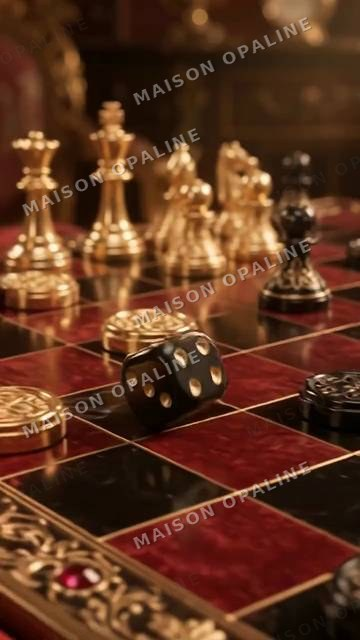
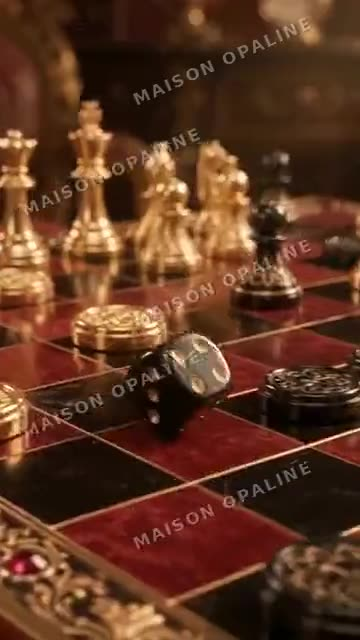
Aperçus des univers : début de la vidéo plutôt que la carte
Claude-Session: https://claude.ai/code/session_01HBNLQ4isHV8YxifdpwXKWK

diff --git a/index.html b/index.html
@@ -386,8 +386,8 @@
   document.title = BRAND + ' — invitations animées';
 
   function mkVideo(k, label){
-    var v = document.createElement('video'); v.muted = true; v.loop = false; v.playsInline = true; v.setAttribute('playsinline',''); v.preload = 'metadata'; v.setAttribute('controlsList','nodownload noremoteplayback'); v.setAttribute('disablePictureInPicture',''); v.disableRemotePlayback = true; v.poster = 'mini/' + k + '.jpg?v=15';
-    v.setAttribute('aria-label', label); v.poster = 'mini/' + k + '.jpg?v=15'; v.addEventListener('click', function(){ if(v.paused) v.go(); });
+    var v = document.createElement('video'); v.muted = true; v.loop = false; v.playsInline = true; v.setAttribute('playsinline',''); v.preload = 'metadata'; v.setAttribute('controlsList','nodownload noremoteplayback'); v.setAttribute('disablePictureInPicture',''); v.disableRemotePlayback = true; v.poster = 'mini/' + k + '.jpg?v=16';
+    v.setAttribute('aria-label', label); v.poster = 'mini/' + k + '.jpg?v=16'; v.addEventListener('click', function(){ if(v.paused) v.go(); });
     ['mp4','webm'].forEach(function(x){ var s = document.createElement('source'); s.src = 'mini/' + k + '.' + x + '?v=18'; s.type = 'video/' + x; v.appendChild(s); });
     // l'aperçu s'arrête sur la carte (avant le fondu au noir de fin de clip) ; un nouveau clic le relance depuis le début
     v.addEventListener('timeupdate', function(){ if(!v.paused && v.duration && v.currentTime >= v.duration - 0.9){ v.pause(); v.dataset.done = '1'; } });
@@ -418,7 +418,7 @@
     var c = document.createElement('article'); c.className = 'uni'; c.style.setProperty('--tint', u.tint);
     var fr = document.createElement('div'); fr.className = 'frame';
     if(u.cover){ var v = mkVideo(u.cover, 'Aperçu animé : ' + u.n); fr.appendChild(v); fr.classList.add('tap'); (function(vv, ff){ ff.addEventListener('click', function(){ if(vv.paused){ track.querySelectorAll('video').forEach(function(o){ if(o !== vv) o.pause(); }); vv.go(); } else vv.pause(); }); vv.addEventListener('play', function(){ ff.classList.add('playing'); }); vv.addEventListener('pause', function(){ ff.classList.remove('playing'); }); })(v, fr); }
-    else { var im = document.createElement('img'); im.className = 'ph'; im.src = 'univers/' + u.id + '.jpg?v=15'; im.alt = u.n; fr.appendChild(im); }
+    else { var im = document.createElement('img'); im.className = 'ph'; im.src = 'univers/' + u.id + '.jpg?v=16'; im.alt = u.n; fr.appendChild(im); }
     c.appendChild(fr);
     var h = document.createElement('h3'); h.textContent = u.n; c.appendChild(h);
     var t = document.createElement('p'); t.className = 'tag'; t.textContent = u.tag; c.appendChild(t);
@@ -571,7 +571,7 @@
     box.innerHTML = '';
     a.forEach(function(k){
       var m = MODELS[k], it = document.createElement('div'); it.className = 'it';
-      var im = document.createElement('img'); im.src = 'mini/' + k + '.jpg?v=15'; im.alt = ''; it.appendChild(im);
+      var im = document.createElement('img'); im.src = 'mini/' + k + '.jpg?v=16'; im.alt = ''; it.appendChild(im);
       var t = document.createElement('div'); t.className = 't';
       var b = document.createElement('b'); b.textContent = m.n; var sm = document.createElement('small'); sm.textContent = m.occ; t.appendChild(b); t.appendChild(sm);
       var ac = document.createElement('div'); ac.className = 'a';

diff --git a/commande.html b/commande.html
@@ -341,7 +341,7 @@
     if(UKEYS && UKEYS.indexOf(k) < 0) return;
     const t = THEMES[k], b = document.createElement('button'); b.type = 'button'; b.className = 'theme';
     const vid = document.createElement('video'); vid.muted = true; vid.loop = true; vid.playsInline = true; vid.setAttribute('playsinline', ''); vid.preload = 'metadata'; vid.setAttribute('controlsList','nodownload noremoteplayback'); vid.setAttribute('disablePictureInPicture',''); vid.disableRemotePlayback = true;
-    vid.poster = t.mini + '.jpg?v=18';
+    vid.poster = t.mini + '.jpg?v=19';
     ['mp4','webm'].forEach(x => { const so = document.createElement('source'); so.src = t.mini + '.' + x + '?v=18'; so.type = 'video/' + x; vid.appendChild(so); }); vid.setAttribute('aria-label', 'Aperçu animé : ' + t.name); b.appendChild(vid);
     if(io){ io.observe(vid); } else { vid.autoplay = true; }
     const d = document.createElement('div'); d.className = 'b';
